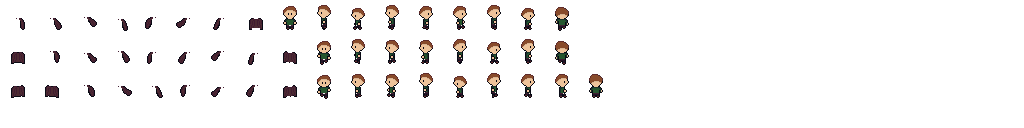
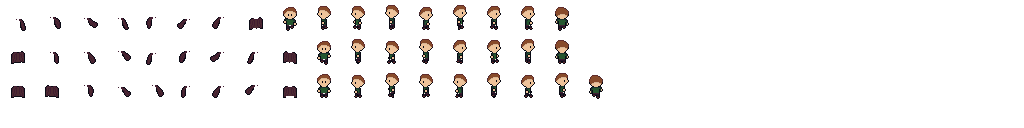
Updated Player Texture Atlas and Packing Configuration

diff --git a/Project/core/src/main/java/io/github/slash_and_rule/MyPacker.java b/Project/core/src/main/java/io/github/slash_and_rule/MyPacker.java
@@ -4,7 +4,7 @@ import com.badlogic.gdx.tools.texturepacker.TexturePacker;
 
 public class MyPacker {
     public static void main(String[] args) {
-        TexturePacker.process("Project/assets/entities/BasicSlimeRaw", "Project/assets/entities/BasicSlime",
-                "BasicSlime");
+        TexturePacker.process("Project/assets/entities/PlayerRaw", "Project/assets/entities/Player",
+                "Player");
     }
 }
